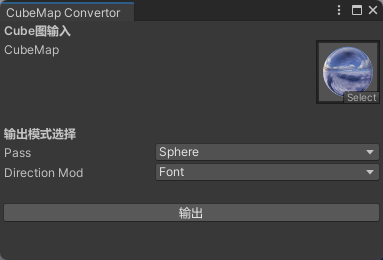
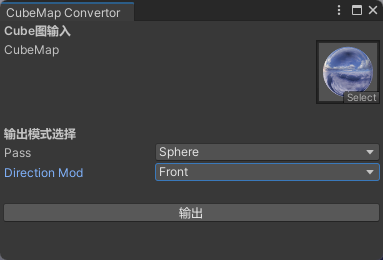
[修改] 拼写错误

Changed region(s): [[0.4021, 0.6154, 1.0, 0.7077], [0.0, 0.6462, 0.2298, 0.6769]]

diff --git a/CubemapConvertor.cs b/CubemapConvertor.cs
@@ -23,7 +23,7 @@ public class CubemapConvertor : EditorWindow
     
     enum DirectionModel
     {
-        Font = 0,
+        Front = 0,
         Back = 1,
         Top = 2,
     }
@@ -42,7 +42,7 @@ public class CubemapConvertor : EditorWindow
     RenderTexture renderTexture;
     private Model mod = Model.Sphere;
     private MappingScale mappingScale = MappingScale.Default;
-    private DirectionModel directionMod = DirectionModel.Font;
+    private DirectionModel directionMod = DirectionModel.Front;
     private EquirectangularModel equirectangularModel = EquirectangularModel.Defualt;
     private string dataPath = "";
     private float sphereRadius;
